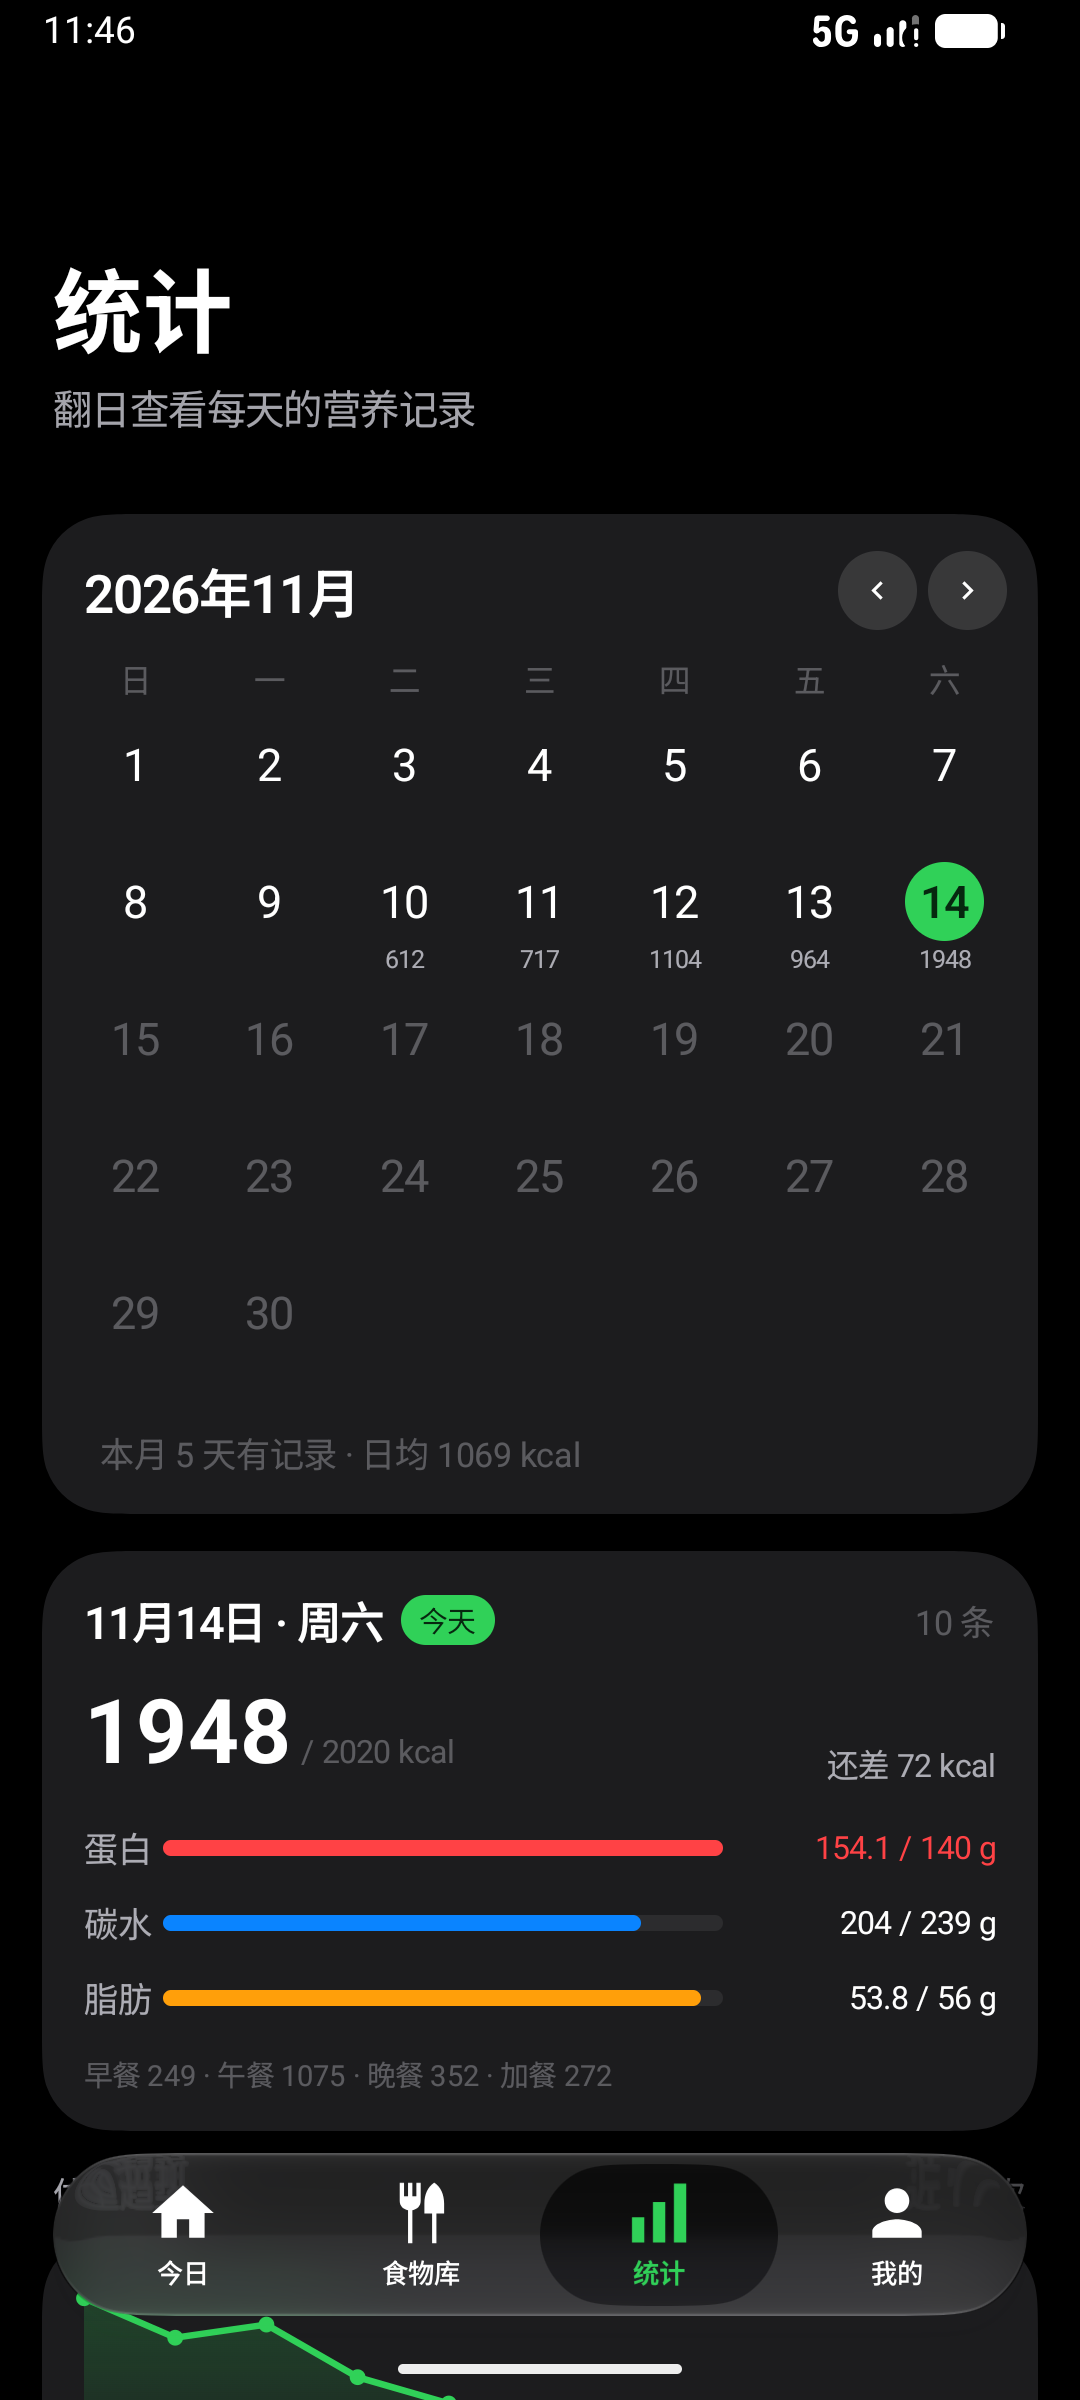
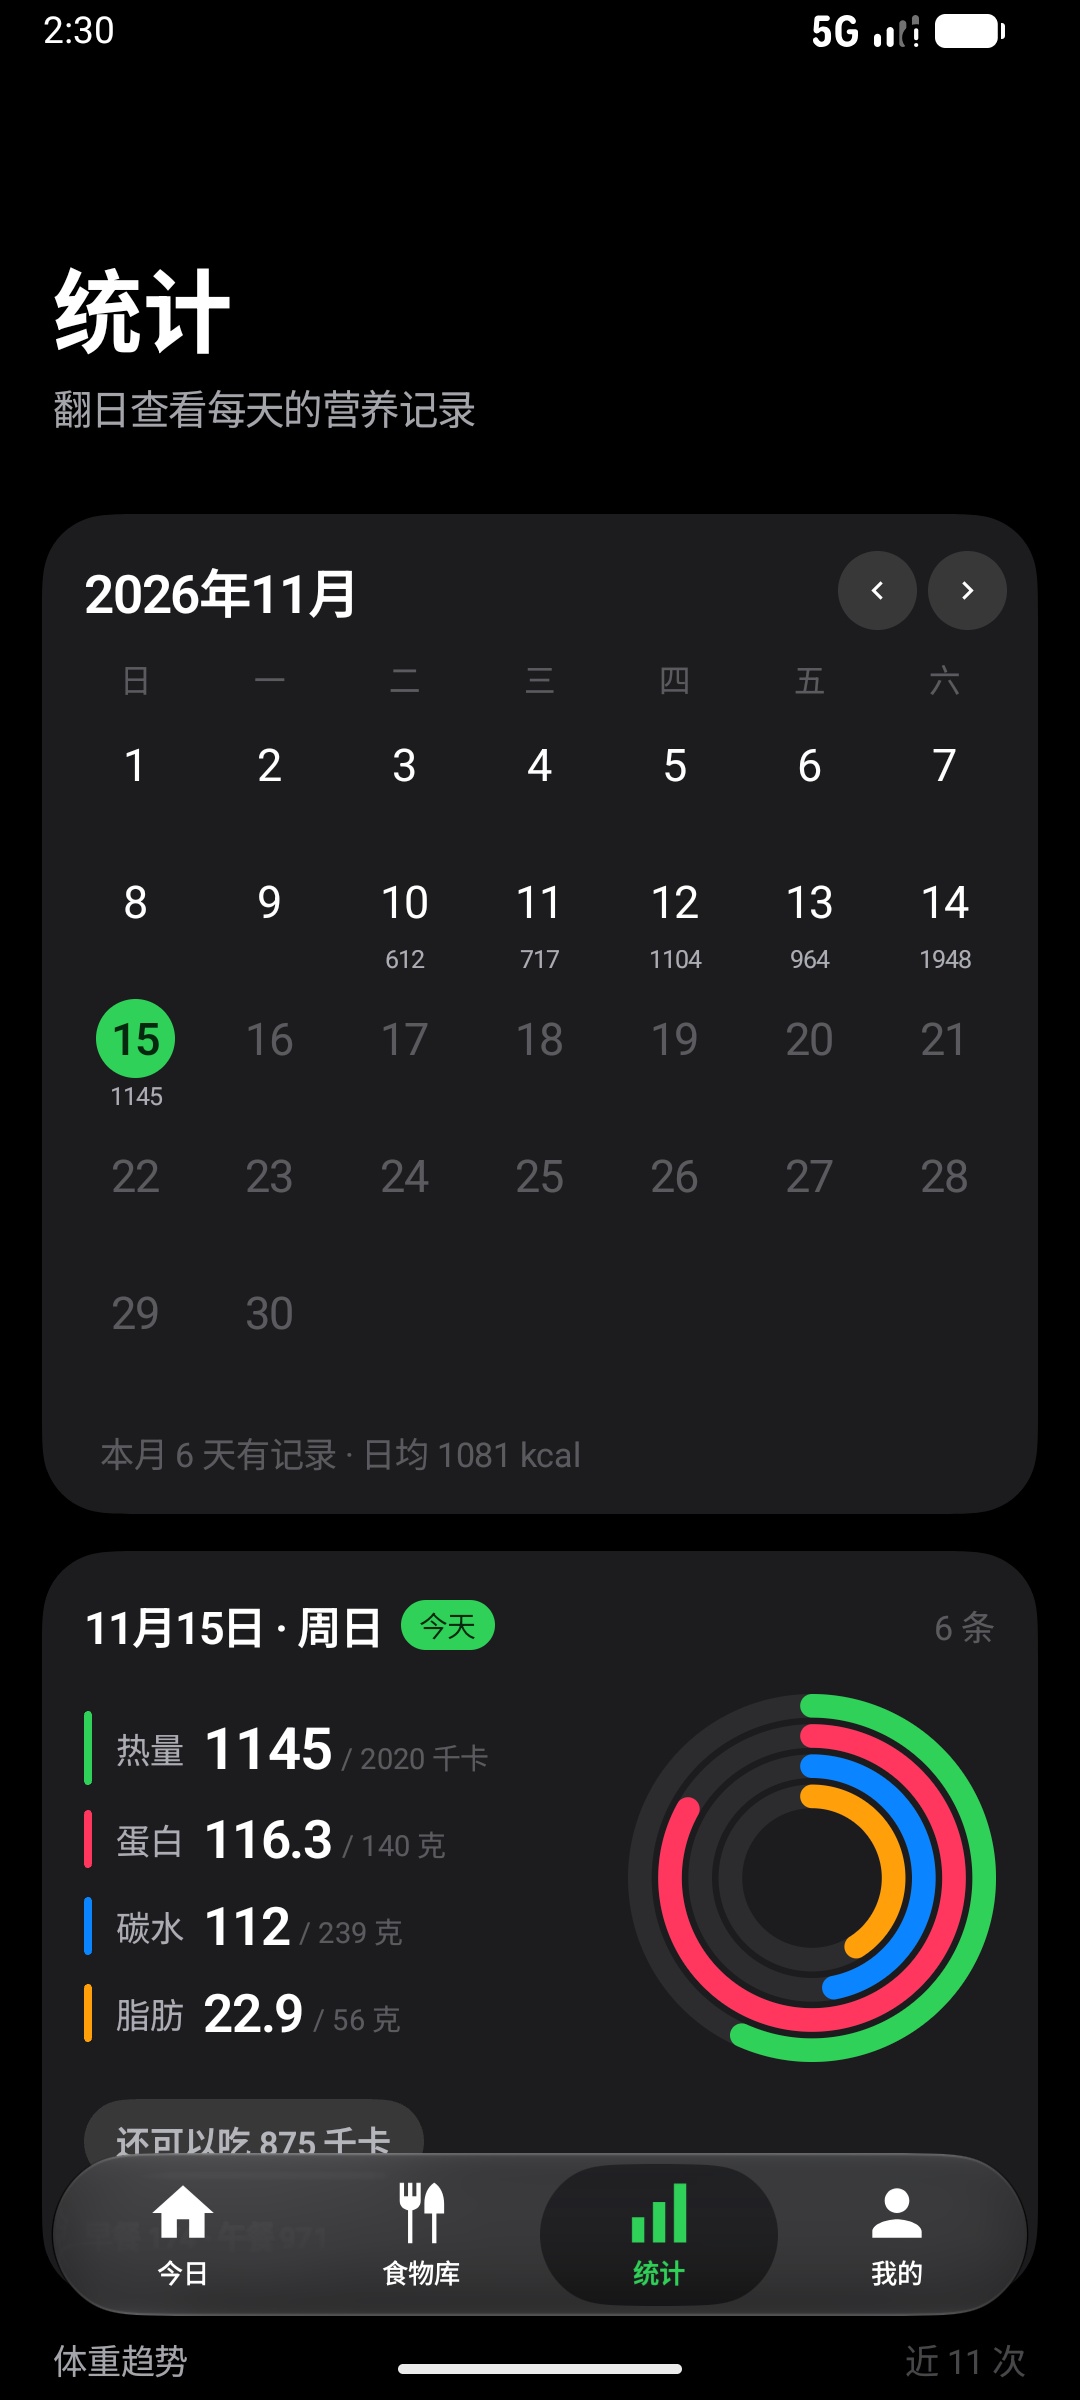
今日概览补上热量环，统计页当日详情换成同一套圆环
- NutritionRingsCard 改成四圈：外圈热量（绿）、蛋白、碳水、脂肪，
  顺序和左侧四行数值一致，不再出现「热量只有数字没有环」的缺口
- 把「四行数值 + 四圈环 + 余量胶囊」抽成 NutritionRingsBody，
  统计页的 DaySummaryCard 复用同一段，两处不会各画一套
- DaySummaryCard 去掉三条进度条，改成同样的圆环版式：保留日期表头、
  今天胶囊、条数和餐次分布，空日期仍然显示空态
- 删除不再使用的 MacroProgressRow 及其两个 import
- 截图更新：今日浅色、统计深浅色、滚动态

diff --git a/app/src/main/java/com/fitlog/app/ui/components/IosPrimitives.kt b/app/src/main/java/com/fitlog/app/ui/components/IosPrimitives.kt
@@ -511,22 +511,44 @@ private fun StepperButton(
 
 /* ------------------------- 今日概览：同心圆环 ------------------------- */
 
+/* ------------------------- 营养概览：同心圆环 ------------------------- */
+
 /**
- * 今日营养概览：左边四行数值（热量 / 蛋白 / 碳水 / 脂肪），右边三圈同心环。
+ * 今日营养概览：左边四行数值（热量 / 蛋白 / 碳水 / 脂肪），右边四圈同心环。
  *
- * 之前是「一个大热量环 + 一张宏量卡」，热量数字和「已摄入 · 目标」压在环上，
- * 字和环互相打架。现在参考活动圆环的版式：数值全部在环外、环只表达比例，
- * 三个环从外到内依次是蛋白、碳水、脂肪，颜色和左侧色条一一对应。
+ * 四圈从外到内依次是热量、蛋白、碳水、脂肪，顺序和左边四行完全一致、颜色一一对应。
+ * 早一版只画了三个宏量环、热量只有数字没有环，视觉上总像缺一块；
+ * 把热量放进最外圈之后，四行数值和四个环才对得上。
  *
- * 热量不单独占一个环——它是总量而不是「完成度」，用第一行的大号数字
- * 加底部「还可以吃」胶囊表达，信息层级反而更清楚。
+ * 数值全部在环外，环只表达比例，文字不再压在圆环上。
  */
 @Composable
 fun NutritionRingsCard(
     totals: Totals,
     targets: Targets,
     modifier: Modifier = Modifier,
-    ringSize: Dp = 132.dp,
+) {
+    Column(
+        modifier
+            .fillMaxWidth()
+            .clip(ContinuousRoundedRectangle(26.dp))
+            .background(GlasmioTheme.colors.elevatedBackground)
+            .padding(16.dp),
+    ) {
+        NutritionRingsBody(totals = totals, targets = targets)
+    }
+}
+
+/**
+ * 「四行数值 + 四圈环 + 余量胶囊」这一段，今日页和统计页的当日详情共用，
+ * 保证两处是同一套东西，改一处两边都跟着变。
+ */
+@Composable
+fun NutritionRingsBody(
+    totals: Totals,
+    targets: Targets,
+    modifier: Modifier = Modifier,
+    ringSize: Dp = 140.dp,
 ) {
     val colors = GlasmioTheme.colors
     val dark = colors.isDark
@@ -534,13 +556,7 @@ fun NutritionRingsCard(
     val over = remaining < 0
     val danger = FitPalette.danger(dark)
 
-    Column(
-        modifier
-            .fillMaxWidth()
-            .clip(ContinuousRoundedRectangle(26.dp))
-            .background(colors.elevatedBackground)
-            .padding(horizontal = 16.dp, vertical = 16.dp),
-    ) {
+    Column(modifier) {
         Row(verticalAlignment = Alignment.CenterVertically) {
             Column(
                 Modifier.weight(1f),
@@ -582,9 +598,11 @@ fun NutritionRingsCard(
             }
             Spacer(Modifier.width(14.dp))
             MacroRings(
+                kcal = ratioOf(totals.kcal.toDouble(), targets.kcal),
                 protein = ratioOf(totals.protein, targets.protein),
                 carbs = ratioOf(totals.carbs, targets.carbs),
                 fat = ratioOf(totals.fat, targets.fat),
+                overKcal = over,
                 overProtein = targets.protein > 0 && totals.protein > targets.protein,
                 overCarbs = targets.carbs > 0 && totals.carbs > targets.carbs,
                 overFat = targets.fat > 0 && totals.fat > targets.fat,
@@ -643,16 +661,18 @@ private fun StatLine(
 }
 
 /**
- * 三圈同心环：外圈蛋白、中圈碳水、内圈脂肪。
+ * 四圈同心环：外圈热量、再蛋白、碳水、脂肪。
  *
  * 进度用动画推过去（切日期、记完一条都能看到环长出来），
  * 轨道和进度都是 Canvas 画的，不需要图片资源，也不走玻璃采样。
  */
 @Composable
 private fun MacroRings(
+    kcal: Float,
     protein: Float,
     carbs: Float,
     fat: Float,
+    overKcal: Boolean,
     overProtein: Boolean,
     overCarbs: Boolean,
     overFat: Boolean,
@@ -661,16 +681,17 @@ private fun MacroRings(
     val colors = GlasmioTheme.colors
     val dark = colors.isDark
     val danger = FitPalette.danger(dark)
+    val kcalProgress by animateFloatAsState(kcal, tween(700, easing = FastOutSlowInEasing), label = "kcalRing")
     val proteinProgress by animateFloatAsState(protein, tween(700, easing = FastOutSlowInEasing), label = "proteinRing")
     val carbsProgress by animateFloatAsState(carbs, tween(700, easing = FastOutSlowInEasing), label = "carbsRing")
     val fatProgress by animateFloatAsState(fat, tween(700, easing = FastOutSlowInEasing), label = "fatRing")
     val track = colors.systemGray5
 
     Canvas(modifier) {
-        val stroke = 10.dp.toPx()
-        // 圈与圈之间留一点缝：三个值都很小时（比如刚记录一项），
-        // 贴在一起的圆头会糊成一块色斑，分开才能看出是三个环。
-        val gap = 3.dp.toPx()
+        val stroke = 9.dp.toPx()
+        // 圈与圈之间留一点缝：几个值都很小时（比如刚记录一项），
+        // 贴在一起的圆头会糊成一块色斑，分开才能看出是四个环。
+        val gap = 2.5.dp.toPx()
         val step = stroke + gap
         val outer = size.minDimension / 2f - stroke / 2f
 
@@ -699,9 +720,10 @@ private fun MacroRings(
             }
         }
 
-        ring(proteinProgress, if (overProtein) danger else FitPalette.protein, outer)
-        ring(carbsProgress, if (overCarbs) danger else FitPalette.carbs, outer - step)
-        ring(fatProgress, if (overFat) danger else FitPalette.fat, outer - step * 2f)
+        ring(kcalProgress, if (overKcal) danger else colors.accent, outer)
+        ring(proteinProgress, if (overProtein) danger else FitPalette.protein, outer - step)
+        ring(carbsProgress, if (overCarbs) danger else FitPalette.carbs, outer - step * 2f)
+        ring(fatProgress, if (overFat) danger else FitPalette.fat, outer - step * 3f)
     }
 }
 

diff --git a/app/src/main/java/com/fitlog/app/ui/components/HistoryCalendar.kt b/app/src/main/java/com/fitlog/app/ui/components/HistoryCalendar.kt
@@ -7,7 +7,6 @@ import androidx.compose.foundation.layout.Column
 import androidx.compose.foundation.layout.Row
 import androidx.compose.foundation.layout.RowScope
 import androidx.compose.foundation.layout.Spacer
-import androidx.compose.foundation.layout.fillMaxHeight
 import androidx.compose.foundation.layout.fillMaxWidth
 import androidx.compose.foundation.layout.height
 import androidx.compose.foundation.layout.padding
@@ -27,7 +26,6 @@ import androidx.compose.ui.unit.sp
 import com.fitlog.app.data.LogEntry
 import com.fitlog.app.data.Meal
 import com.fitlog.app.domain.Targets
-import com.fitlog.app.domain.pretty
 import com.fitlog.app.domain.totalsOf
 import com.fitlog.app.ui.theme.FitPalette
 import com.kyant.capsule.ContinuousRoundedRectangle
@@ -245,6 +243,10 @@ private fun RowScope.DayCell(
 
 /**
  * 选中日期的当日营养汇总。
+ *
+ * 版式和今日页那张卡保持一致：左边四行数值、右边四圈同心环、底部余量胶囊，
+ * 上面多一行「日期 + 今天 + 几条」的表头，下面多一行餐次分布。
+ * 两处共用 [NutritionRingsBody]，改一处两边都跟着变。
  */
 @Composable
 fun DaySummaryCard(
@@ -255,7 +257,6 @@ fun DaySummaryCard(
 ) {
     val colors = GlasmioTheme.colors
     val totals = totalsOf(entries)
-    val remaining = targets.kcal - totals.kcal
     val isToday = date == LocalDate.now()
 
     Column(
@@ -263,7 +264,7 @@ fun DaySummaryCard(
             .fillMaxWidth()
             .clip(ContinuousRoundedRectangle(26.dp))
             .background(colors.elevatedBackground)
-            .padding(horizontal = 16.dp, vertical = 14.dp),
+            .padding(16.dp),
     ) {
         Row(verticalAlignment = Alignment.CenterVertically) {
             Text(
@@ -294,34 +295,8 @@ fun DaySummaryCard(
         if (entries.isEmpty()) {
             EmptyHint(text = "这一天还没有记录", symbol = null)
         } else {
-            Spacer(Modifier.height(10.dp))
-            Row(verticalAlignment = Alignment.Bottom) {
-                Text(
-                    "${totals.kcal}",
-                    style = IosTypography.largeTitle,
-                    fontWeight = FontWeight(700),
-                    color = colors.content,
-                )
-                Text(
-                    " / ${targets.kcal} kcal",
-                    style = IosTypography.caption1,
-                    color = colors.tertiaryContent,
-                    modifier = Modifier.padding(bottom = 5.dp),
-                )
-                Spacer(Modifier.weight(1f))
-                Text(
-                    if (remaining >= 0) "还差 $remaining kcal" else "超出 ${-remaining} kcal",
-                    style = IosTypography.caption1,
-                    color = if (remaining >= 0) colors.secondaryContent else colors.destructive,
-                )
-            }
-
             Spacer(Modifier.height(14.dp))
-            MacroProgressRow("蛋白", totals.protein, targets.protein, FitPalette.protein)
-            Spacer(Modifier.height(10.dp))
-            MacroProgressRow("碳水", totals.carbs, targets.carbs, FitPalette.carbs)
-            Spacer(Modifier.height(10.dp))
-            MacroProgressRow("脂肪", totals.fat, targets.fat, FitPalette.fat)
+            NutritionRingsBody(totals = totals, targets = targets)
 
             val mealLine = Meal.all.mapNotNull { meal ->
                 val kcal = entries.filter { it.meal == meal.id }.sumOf { it.kcal }.roundToInt()
@@ -336,51 +311,6 @@ fun DaySummaryCard(
                 )
             }
         }
-    }
-}
-
-@Composable
-private fun MacroProgressRow(
-    label: String,
-    value: Double,
-    target: Int,
-    color: Color,
-) {
-    val colors = GlasmioTheme.colors
-    val over = target > 0 && value > target
-    val barColor = if (over) colors.destructive else color
-    val fraction = if (target <= 0) 0f else (value / target).toFloat().coerceIn(0f, 1f)
-
-    Row(verticalAlignment = Alignment.CenterVertically) {
-        Text(
-            label,
-            style = IosTypography.footnote,
-            color = colors.secondaryContent,
-            modifier = Modifier.width(30.dp),
-        )
-        Box(
-            Modifier
-                .weight(1f)
-                .height(6.dp)
-                .clip(CircleShape)
-                .background(colors.systemGray5),
-        ) {
-            Box(
-                Modifier
-                    .fillMaxWidth(fraction)
-                    .fillMaxHeight()
-                    .clip(CircleShape)
-                    .background(barColor),
-            )
-        }
-        Spacer(Modifier.width(10.dp))
-        Text(
-            "${value.pretty()} / ${target} g",
-            style = IosTypography.caption1,
-            color = if (over) colors.destructive else colors.content,
-            textAlign = TextAlign.End,
-            modifier = Modifier.width(94.dp),
-        )
     }
 }
 

diff --git a/README.md b/README.md
@@ -292,7 +292,7 @@ D:\AndroidProjects\FitLog\
   反馈环路会让画面糊掉（Glasmio 文档里也明确要求分层）。
 - **没有用 Room。** 这个数据量（几百种食物、几年记录）一份 JSON 完全够，
   换来的是导出、导入、换机迁移都只是读写一个文件，调试时也能直接 `cat` 出来看。
-- **图表还是自己画的。** 柱状图、折线图、三圈同心环都是 `Canvas`，
+- **图表还是自己画的。** 柱状图、折线图、四圈同心环都是 `Canvas`，
   没引图表库；图标只有两个是自绘矢量，其余复用 Glasmio 的 Material 回退表。
 - **状态只有一份。** `AppViewModel` 持有 `AppData` 和界面状态，Compose 单向订阅，
   不会出现「某个角落的数据忘了刷新」。
@@ -310,6 +310,10 @@ D:\AndroidProjects\FitLog\
   `FoodForm` 这一层做 `1 kcal = 4.184 kJ` 的换算，存档里没有 kJ 字段，
   网页版备份也不用跟着改。输入框显示 kJ 时取整（营养表本来就是整数），
   顺手把「填 690、回填成 689.9」这种一位小数抖动抹掉。
+- **今日页和统计页共用一套「四行数值 + 四圈环」。** 抽成了 `NutritionRingsBody`，
+  两张卡只是外套不同：今日页没有表头，统计页多一行「日期 + 今天 + 几条」和餐次分布。
+  热量放在最外圈而不是只留数字，四行数值与四个环的顺序、颜色完全对应，
+  扫一眼就能对上——这也意味着两处不能各画一套，改一处两边一起变。
 
 **关于 `build.gradle.kts` 里那行 `buildscript classpath`：**
 AGP 9.0 起内置 Kotlin 支持，**不再需要** `org.jetbrains.kotlin.android` 插件；
@@ -322,10 +326,10 @@ AGP 9.0 起内置 Kotlin 支持，**不再需要** `org.jetbrains.kotlin.android
 
 | 模块 | 内容 |
 |---|---|
-| 今日 | 同心圆环（蛋白/碳水/脂肪三圈 + 左侧热量与宏量数值）、可吃余量、超出目标变红、四餐分组、前后翻日期、复制昨天 |
+| 今日 | 四圈同心环（热量/蛋白/碳水/脂肪，外到内）+ 左侧同序数值、可吃余量、超出目标变红、四餐分组、前后翻日期、复制昨天 |
 | 记录 | 搜索（中文 / 拼音首字母）、分类筛选、份量步进、一顿汇总后一次入账 |
 | 食物库 | 新建/编辑/删除、七个分类、按使用频次排序、按营养表（能量填 kJ、每 100 g）+ 实际克数自动折算、批量粘贴导入（支持 `485kj`）、空库引导建第一个 |
-| 统计 | 月历（每天标出当日热量，可一直往回翻）、点某天看当日热量/蛋白/碳水/脂肪与餐次、体重折线、记体重 |
+| 统计 | 月历（每天标出当日热量，可一直往回翻）、点某天看当日详情（与今日页同一套四圈环 + 餐次分布）、体重折线、记体重 |
 | 我的 | 目标与代谢数据、导出/导入备份、清空数据（带确认弹窗） |
 | 体验 | 深浅色跟随系统、大标题随滚动收起、底栏随滚动收缩、弹层磨砂、键盘弹起时表单自动上移 |
 
@@ -370,13 +374,13 @@ AGP 9.0 起内置 Kotlin 支持，**不再需要** `org.jetbrains.kotlin.android
 | 大标题收起 | 向上滚动后标题收进工具栏、顶部渐进模糊生效 |
 | 底栏收缩 | 滚动 64dp 后收成左下角小圆，点一下展开 |
 | 选择食物 → 记录 | 步进到「已选 1 份 · 约 104 kcal」，入账后今日页晚餐多出一条 |
-| 今日概览 | 热量 1145 / 2020 千卡，三圈环 83% / 47% / 41%；加到 2981 千卡时四行数字和三个环全转红、余量胶囊变「已超出 961 千卡」 |
+| 今日概览 | 热量 1145 / 2020 千卡，四圈环 57% / 83% / 47% / 41%（外到内）；加到 2981 千卡时四行数字和四个环全转红、余量胶囊变「已超出 961 千卡」 |
 | 新建 / 编辑食物 | 分类胶囊、单位、克数、四项营养都能存；删除前有确认弹窗 |
 | 按营养表录入 | 白米饭 能量 485 kJ/100 g × 150 g → 1 份 174 kcal；鸡胸肉 690 kJ + 12/60/3 g × 150 g → 247 kcal；改口径（每 100 g ↔ 每份）时数字跟着换算 |
 | 能量单位 | 表单填 690 kJ，存成 247.4 kcal，再打开回填 690 kJ（取整显示，不抖成 689.9） |
 | 表单校验 | 缺名字 / 缺克数时提示直接写在对应栏下方（弹层是独立窗口，toast 会被盖住） |
 | 批量导入 | 一行一条粘贴，导入后分类默认「主食」；`326kj` 这类写法按 kJ 换算，裸数字仍按 kcal |
-| 统计 | 月历显示每天热量、可翻月；点 11 月 14 日显示 1948 kcal / 蛋白 154.1g 超标变红；体重折线 11 个点 |
+| 统计 | 月历显示每天热量、可翻月；点某天显示当日四圈环详情（与今日页同一套）；体重折线 11 个点 |
 | 记体重 | 单次记录后折线更新，「我的」里的身高体重同步 |
 | 清空数据 | 侧边玻璃弹窗确认，确认后数据清空 |
 | 深浅色 | 两套色板都正常，状态栏图标随之反色，玻璃材质自动换配方 |
